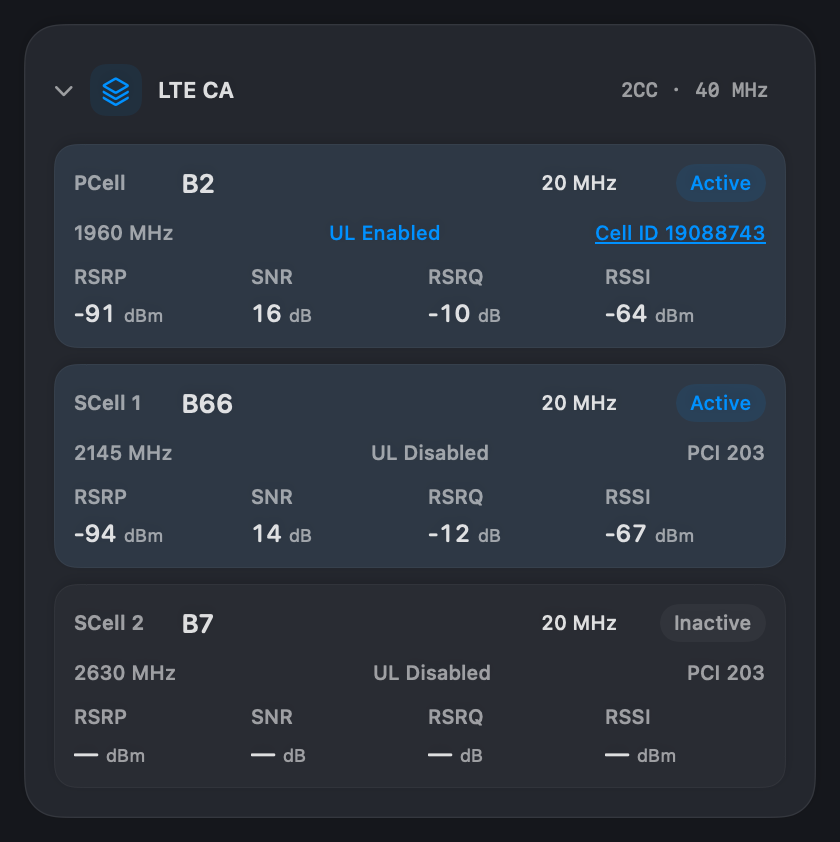
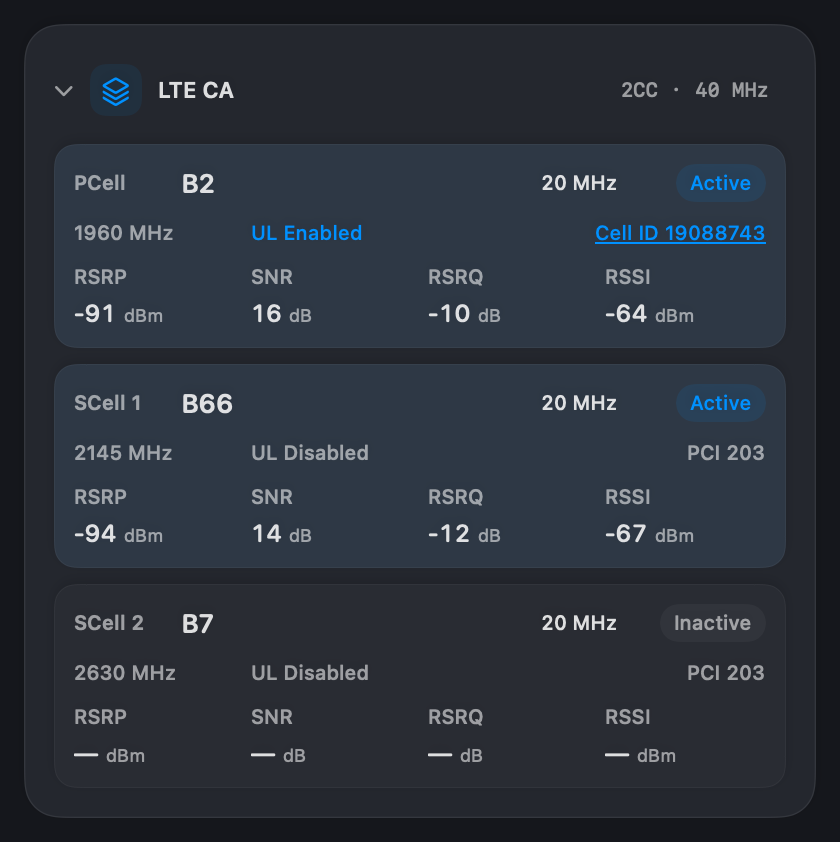
Align carrier metadata columns in v1.5.12

Changed region(s): [[0.3095, 0.247, 0.5262, 0.3088], [0.3095, 0.772, 0.5881, 0.8337], [0.3095, 0.5249, 0.5881, 0.5558]]

diff --git a/scripts/VerifyCarrierAlignment.swift b/scripts/VerifyCarrierAlignment.swift
@@ -1,0 +1,89 @@
+import AppKit
+import Foundation
+import Vision
+
+/// Pixel-level regression check of production SwiftUI screenshots, not a mock layout.
+/// Run with CA screenshots produced by ReadmeScreenshotGenerator --alignment-stress.
+@main
+enum VerifyCarrierAlignment {
+    static func main() throws {
+        guard CommandLine.arguments.count > 1 else {
+            print("usage: VerifyCarrierAlignment CA_SCREENSHOT.png ...")
+            exit(64)
+        }
+        for path in CommandLine.arguments.dropFirst() {
+            let url = URL(fileURLWithPath: path)
+            let request = VNRecognizeTextRequest()
+            request.recognitionLevel = .accurate
+            request.usesLanguageCorrection = false
+            request.recognitionLanguages = path.contains("-zh-") ? ["zh-Hans", "en-US"] : ["en-US"]
+            try VNImageRequestHandler(url: url).perform([request])
+            let candidates = (request.results ?? []).compactMap { $0.topCandidates(1).first }
+            guard let image = NSBitmapImageRep(data: try Data(contentsOf: url)) else { fail("Missing image") }
+            let ulLabels = ["UL Enabled", "UL Disabled", "UL Unknown", "上行启用", "上行禁用", "上行未知"]
+            let ul = try bounds(of: ulLabels, in: candidates)
+            let metrics = try bounds(of: ["SINR", "SNR"], in: candidates)
+            // Vision's substring boxes approximate character advances (several
+            // pixels of noise). Locate the actual glyph ink inside each box.
+            let xs = ul.map { inkLeft(in: $0, image: image) }
+            if xs.isEmpty { print("Recognized text: \(candidates.map(\.string))") }
+            guard xs.count >= 3, let low = xs.min(), let high = xs.max(), high - low <= 3 else {
+                fail("UL column is not aligned in \(url.lastPathComponent): \(xs)")
+            }
+            guard metrics.count == ul.count,
+                  metrics.allSatisfy({ abs(inkLeft(in: $0, image: image) - low) <= 3 }) else {
+                fail("UL does not align with SINR/SNR in \(url.lastPathComponent)")
+            }
+            guard candidates.contains(where: { $0.string.contains("68719476735") }) else {
+                fail("Longest NR Cell ID is missing or clipped in \(url.lastPathComponent)")
+            }
+            print("\(url.lastPathComponent): \(xs.count) UL rows aligned with SINR/SNR; spread \(String(format: "%.2f", high - low)) px; full 11-digit Cell ID visible")
+        }
+    }
+
+    private static func inkLeft(in box: CGRect, image: NSBitmapImageRep) -> Double {
+        let width = image.pixelsWide, height = image.pixelsHigh
+        let left = max(0, Int(box.minX * Double(width)) - 12)
+        let right = min(width - 1, Int(ceil(box.maxX * Double(width))) + 12)
+        let top = max(0, Int((1 - box.maxY) * Double(height)) - 3)
+        let bottom = min(height - 1, Int(ceil((1 - box.minY) * Double(height))) + 3)
+        var samples: [(x: Int, rgb: Int)] = []
+        var histogram: [Int: Int] = [:]
+        for y in top...bottom {
+            for x in left...right {
+                guard let color = image.colorAt(x: x, y: y)?.usingColorSpace(.deviceRGB) else { continue }
+                let rgb = Int((color.redComponent * 255).rounded()) << 16
+                    | Int((color.greenComponent * 255).rounded()) << 8
+                    | Int((color.blueComponent * 255).rounded())
+                samples.append((x, rgb))
+                histogram[rgb, default: 0] += 1
+            }
+        }
+        guard let background = histogram.max(by: { $0.value < $1.value })?.key else { fail("No pixels") }
+        let ink = samples.filter { sample in
+            [0, 8, 16].map { shift in
+                abs(((sample.rgb >> shift) & 255) - ((background >> shift) & 255))
+            }.max()! > 25
+        }
+        guard let x = ink.map(\.x).min() else { fail("No text ink") }
+        return Double(x)
+    }
+
+    private static func fail(_ message: String) -> Never {
+        print(message)
+        exit(1)
+    }
+
+    private static func bounds(of labels: [String], in candidates: [VNRecognizedText]) throws -> [CGRect] {
+        var results: [CGRect] = []
+        for candidate in candidates {
+            for label in labels {
+                if let range = candidate.string.range(of: label),
+                   let box = try candidate.boundingBox(for: range) {
+                    results.append(box.boundingBox)
+                }
+            }
+        }
+        return results
+    }
+}

diff --git a/Sources/SignalStatus/StatusPanel.swift b/Sources/SignalStatus/StatusPanel.swift
@@ -2016,29 +2016,38 @@ private struct CarrierAggregationRow: View {
             .lineLimit(1)
 
             HStack(spacing: 8) {
-                Text(row.frequencyMHz.map(DeviceSnapshot.frequencyText) ?? "— MHz")
-                Spacer(minLength: 0)
-                Text(row.uplinkConfiguration.localizedLabel(language: language))
-                    .foregroundStyle(row.uplinkConfiguration == .enabled ? accent : .secondary)
-                    .accessibilityLabel(L10n.text("UL Configured", language: language))
-                    .accessibilityValue(row.uplinkConfiguration.localizedLabel(language: language))
-                    .help(L10n.text("Uplink configuration, not instantaneous uplink traffic.", language: language))
-                Spacer(minLength: 0)
-                switch row.cellReference {
-                case let .global(cellID):
-                    CellIDLink(cellID: cellID, radio: row.radio, mcc: mcc, mnc: mnc)
-                case let .physical(pci):
-                    Text("PCI \(pci)")
-                case .unavailable:
-                    Text(L10n.text("Cell ID —", language: language))
+                // Two equal half-rows; split the left half into two equal
+                // columns. These align with the four signal columns below.
+                // Intrinsic Cell ID/PCI or UL label widths never move a column.
+                HStack(spacing: 8) {
+                    Text(row.frequencyMHz.map(DeviceSnapshot.frequencyText) ?? "— MHz")
+                        .frame(minWidth: 0, maxWidth: .infinity, alignment: .leading)
+                    Text(row.uplinkConfiguration.localizedLabel(language: language))
+                        .foregroundStyle(row.uplinkConfiguration == .enabled ? accent : .secondary)
+                        .accessibilityLabel(L10n.text("UL Configured", language: language))
+                        .accessibilityValue(row.uplinkConfiguration.localizedLabel(language: language))
+                        .help(L10n.text("Uplink configuration, not instantaneous uplink traffic.", language: language))
+                        .frame(minWidth: 0, maxWidth: .infinity, alignment: .leading)
                 }
+                .frame(minWidth: 0, maxWidth: .infinity)
+                Group {
+                    switch row.cellReference {
+                    case let .global(cellID):
+                        CellIDLink(cellID: cellID, radio: row.radio, mcc: mcc, mnc: mnc)
+                    case let .physical(pci):
+                        Text("PCI \(pci)")
+                    case .unavailable:
+                        Text(L10n.text("Cell ID —", language: language))
+                    }
+                }
+                .frame(minWidth: 0, maxWidth: .infinity, alignment: .trailing)
             }
             .font(.caption2)
             .foregroundStyle(.secondary)
             .lineLimit(1)
             .minimumScaleFactor(0.85)
 
-            LazyVGrid(columns: Array(repeating: GridItem(.flexible(), alignment: .leading), count: 4), spacing: 6) {
+            LazyVGrid(columns: Array(repeating: GridItem(.flexible(), spacing: 8, alignment: .leading), count: 4), spacing: 6) {
                 SignalMetric(label: "RSRP", value: row.signal.rsrpDBm.map(String.init), unit: "dBm")
                 SignalMetric(label: row.radio == .nr ? "SINR" : "SNR", value: row.signal.snrDB.map(Self.metricText), unit: "dB")
                 SignalMetric(label: "RSRQ", value: row.signal.rsrqDB.map(Self.metricText), unit: "dB")

diff --git a/scripts/ReadmeScreenshotGenerator.swift b/scripts/ReadmeScreenshotGenerator.swift
@@ -22,7 +22,7 @@ enum ReadmeScreenshotGenerator {
         let language: AppLanguage = arguments.contains("--chinese") ? .simplifiedChinese : .english
         let width: PanelWidth = arguments.contains("--compact") ? .compact : arguments.contains("--wide") ? .wide : .standard
         let initialSize = NSSize(width: width.points, height: scene == .overview ? 1_180 : 1_600)
-        let fixture = ReadmeFixture(scene: scene)
+        let fixture = ReadmeFixture(scene: scene, alignmentStress: arguments.contains("--alignment-stress"))
         fixture.validate()
 
         let defaults = UserDefaults(suiteName: "CellularModemMonitorReadmeFixture")!
@@ -133,7 +133,7 @@ private struct ReadmeFixture {
     let modem: ActiveModem
     let controls: ModemControlState
 
-    init(scene: ReadmeScene) {
+    init(scene: ReadmeScene, alignmentStress: Bool = false) {
         let isSA = scene == .sa
         let hasCA = ![ReadmeScene.sa, .nsa, .connection, .radio].contains(scene)
         var value = DeviceSnapshot.empty
@@ -194,6 +194,19 @@ private struct ReadmeFixture {
                         uplinkConfiguration: .disabled
                     )
                 ]
+            }
+        }
+        if alignmentStress {
+            // Longest valid identifiers next to short PCI labels, and all three
+            // UL labels: row content must never move the shared column edges.
+            value.nrGlobalCellID = (1 << 36) - 1
+            value.nrPrimaryCell?.globalCellID = value.nrGlobalCellID
+            if value.ltePrimaryCell != nil {
+                value.lteGlobalCellID = (1 << 28) - 1
+                value.ltePrimaryCell?.globalCellID = value.lteGlobalCellID
+            }
+            if !value.nrSecondaryCells.isEmpty {
+                value.nrSecondaryCells[0].uplinkConfiguration = .disabled
             }
         }
         value.updatedAt = Date()

diff --git a/assets/previews/README.md b/assets/previews/README.md
@@ -32,3 +32,16 @@ For a smaller iteration, compile with `--compile-only`, then use for example:
 ```sh
 README_SCENES='sa nsa ca' ./scripts/generate-readme-screenshots.sh --render-only
 ```
+
+## Carrier column alignment regression
+
+Pass `--alignment-stress` to `ReadmeScreenshotGenerator` with `--scene ca` to
+render maximum-length Cell IDs next to short PCI values and all three UL labels.
+Exercise `--compact`, the default standard width, and `--wide`, in both themes
+and languages. Keep `-zh-` in Chinese output filenames for the OCR language selector.
+
+Compile `scripts/VerifyCarrierAlignment.swift` with `swiftc -parse-as-library`
+and pass the resulting screenshots as arguments. It uses macOS Vision to locate
+labels, refines those boxes to actual glyph pixels, checks UL's left edge against
+every other row and SINR/SNR (3 px tolerance), and verifies that the full 11-digit
+NR Cell ID is still visible. It requires access to macOS Vision services.
